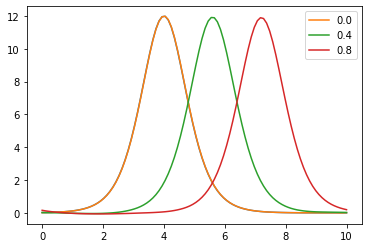
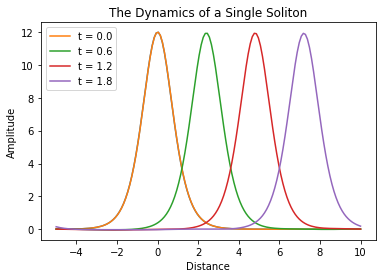
finaising plots

diff --git a/take2.py b/take2.py
@@ -44,51 +44,84 @@ def uprime(x, h):
     return -(wavespeed(x,h) + dispersion(x,h))
 
 #%% Dynamics plots
-plt.figure(1)
-h=0.1
-xmin=-5
-xmax=5
-x = np.linspace(int(xmin),int(xmax),int((xmax-xmin)/h))
-u = KdeV(x, 1.2, 0)
-plt.plot(x,u)
-dt=0.001
-maxes = []
-times=[]
-for i in range (0, 10000):
-    u = RK4(u, dt, h)
-    maxes.append(np.max(u))
-    times.append(i*dt)
-    if i%200 == 0:
-        plt.plot(x,u, label = str(i*0.001))
-        plt.show()
-plt.legend()        
-plt.show()
-
-#%% heights
-# plt.figure(2)
-# plt.scatter(times,maxes)
-# plt.ylim([0,15])
-# plt.show()
-
-#%% Speed vs height
+# plt.figure(1)
 # h=0.1
 # xmin=-5
 # xmax=10
 # x = np.linspace(int(xmin),int(xmax),int((xmax-xmin)/h))
+# u = KdeV(x, 1, 0)
+# plt.plot(x,u)
 # dt=0.001
-# maxes=[]
-# speeds=[]
-# for i in np.arange(0.5,1.5,0.2):
-#     u=KdeV(x,i,0)
-#     plt.plot(x,u, label = str(2*i/10))
-#     for j in range (0, 1000):
-#         u = RK4(u, dt, h)
+# maxes = []
+# times=[]
+# for i in range (0, 2000):
+#     u = RK4(u, dt, h)
 #     maxes.append(np.max(u))
-#     speeds.append(maxes.index(np.max(u)))
-#     plt.plot(x,u, label = str(j*0.001), linestyle='dashed')
+#     times.append(i*dt)
+#     if i%600 == 0:
+#         plt.plot(x,u, label = 't = '+str(i*0.001))
+# plt.legend()
+# plt.xlabel('Distance') 
+# plt.ylabel('Amplitude')   
+# plt.title('The Dynamics of a Single Soliton')     
 # plt.show()
-# plt.figure(4)
-# plt.scatter(maxes,speeds)
+       
+
+
+#%% heights
+# plt.figure(2)
+# plt.plot(times,maxes)
+# plt.ylim([0,15])
+# plt.xlabel('Time')
+# plt.ylabel('Amplitude')   
+# plt.title('Ampitude of a Single Soliton Over 2 Time Units')         
+# plt.show()
+
+#%% Speed vs height
+h=0.1
+xmin=-5
+xmax=10
+x = np.linspace(int(xmin),int(xmax),int((xmax-xmin)/h))
+dt=0.001
+maxes=[]
+speeds=[]
+colors = ['blue', 'orange', 'red', 'green', 'purple']
+for i in [0.5, 0.7, 0.9 ,1.1 , 1.3]:
+    u=KdeV(x,i,0)
+    plt.plot(x,u,  label = 'α = '+str(i), color=colors[int((i-0.4)*5)])
+    for j in range (0, 1000):
+        u = RK4(u, dt, h)
+    maxes.append(np.max(u))
+    speed = (np.where(np.isclose(u, np.max(u))))
+    speeds.append(speed[0][0]/10-5)
+    plt.plot(x,u, linestyle='dashed', color=colors[int((i-0.4)*5)])
+plt.xlabel('Distance')
+plt.ylabel('Displacement')   
+plt.title('The Varying Speeds of Different Size Solitons')     
+plt.legend()
+
+plt.show()
+
+maxestheory=[]
+speedstheory=[]
+for i in np.arange(0.1,1.5,0.2):
+    u=KdeV(x,i,0)
+    plt.plot(x,u, label = str(2*i/10))
+    u=KdeV(x,i,1)
+    maxestheory.append(np.max(u))
+    speed = (np.where(np.isclose(u, np.max(u))))
+    speedstheory.append(speed[0][0]/10-5)
+    plt.plot(x,u, label = str(j*0.001), linestyle='dashed')
+
+
+plt.figure(4)
+
+plt.plot(maxestheory,speedstheory, linestyle='dashed', label = 'Theoretical relation')    
+plt.scatter(maxes,speeds, label = 'Numerical values')
+plt.xlabel('Amplitude')
+plt.ylabel('Speed (Arbitrary Units)')   
+plt.title('Speed of Solitons in Respect to Amplitude')     
+plt.legend()
 
 #%% Collisions plots
 # h=0.1
